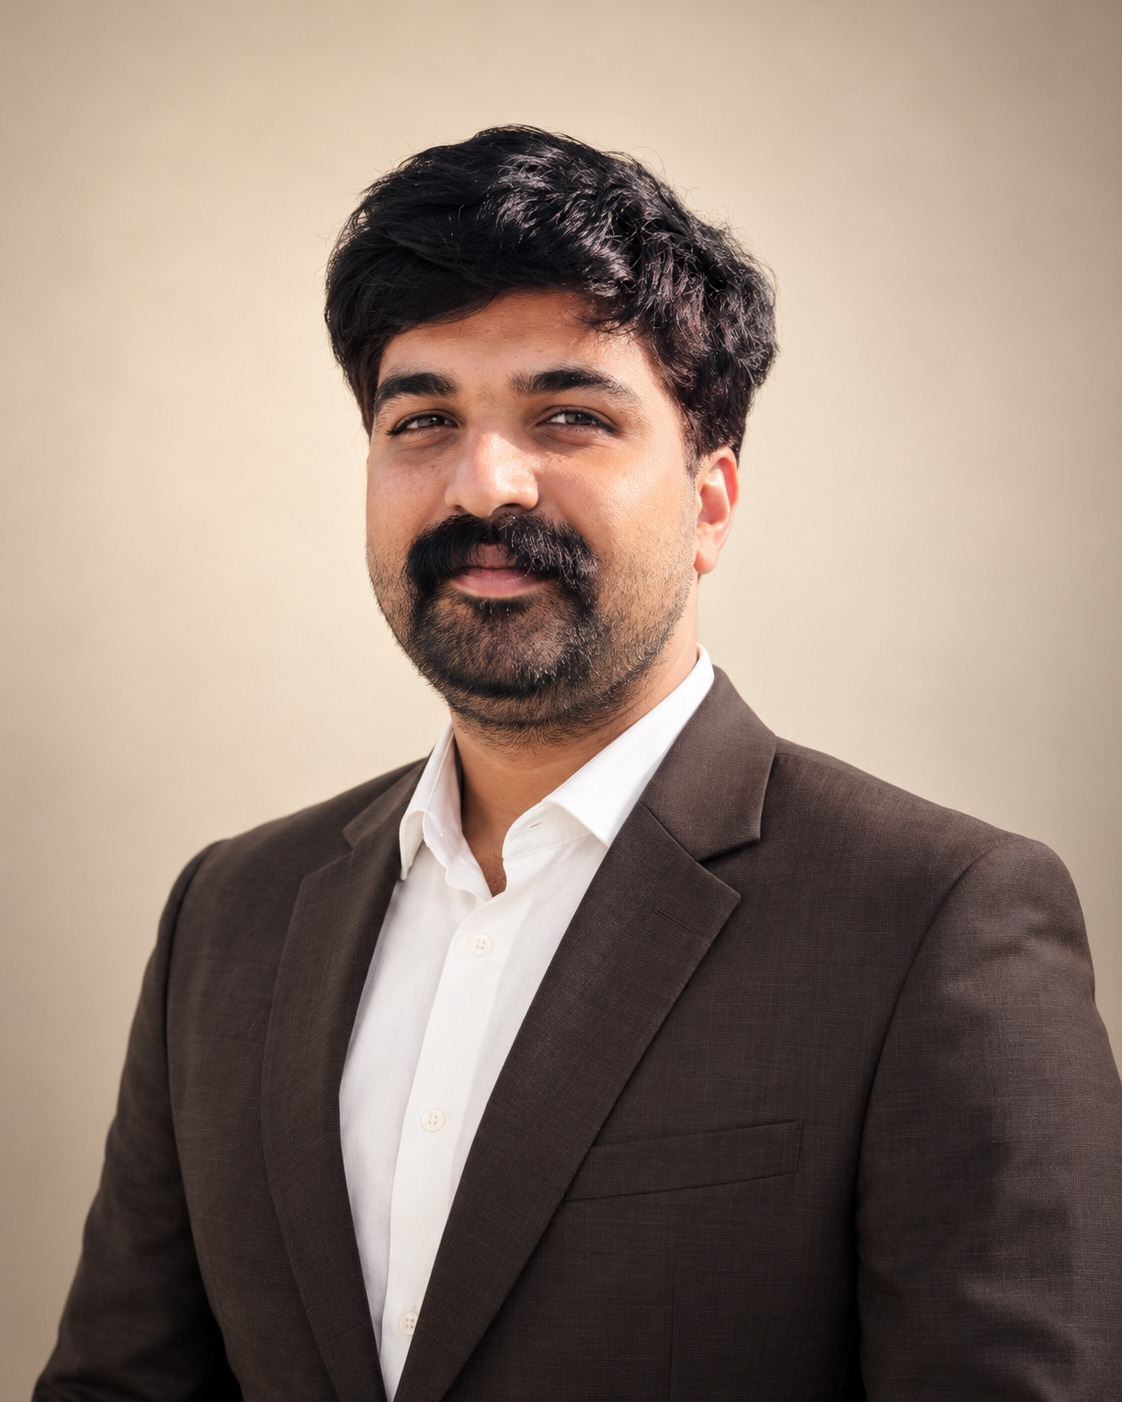
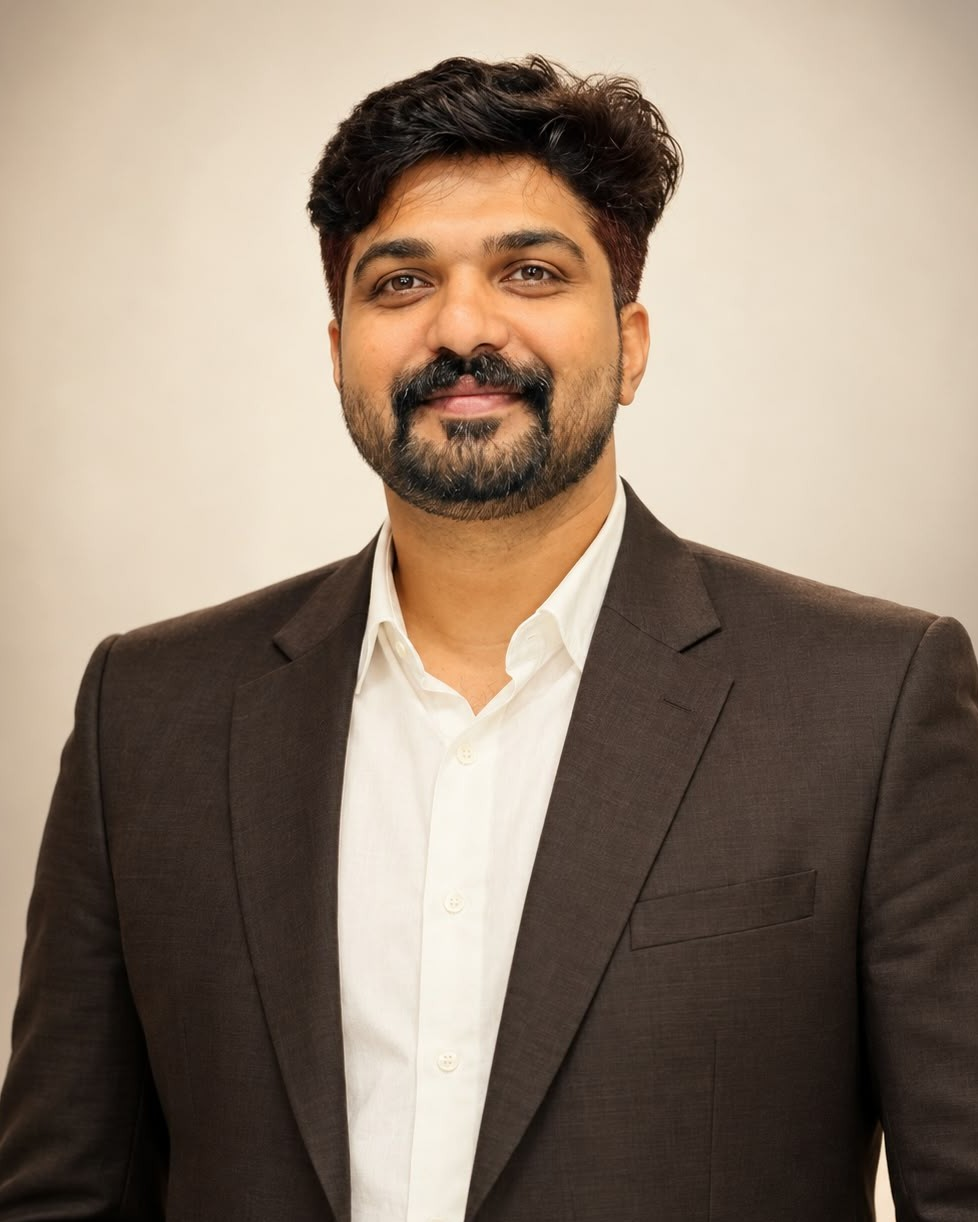
testimonials

diff --git a/data/testimonials.ts b/data/testimonials.ts
@@ -12,23 +12,23 @@ export const testimonials: Testimonial[] = [
   {
     quote:
       'JB Timber Tech has been our go-to supplier for ISI 710 boards. Consistent quality, reliable dispatch, and factory-direct rates that give us a real edge in our region.',
-    name: '[Partner Name]',
-    company: '[Distributor Company]',
-    location: 'Chennai, Tamil Nadu',
+    name: 'Mahin A L',
+    company: 'Plyland Agencies',
+    location: 'Edapally, Kerala',
   },
   {
     quote:
       'The Gurjan Face Dipping range transformed our product line. Every batch arrives perfectly calibrated — our commercial clients notice the difference immediately.',
-    name: '[Partner Name]',
-    company: '[Timber Merchant]',
-    location: 'Kochi, Kerala',
+    name: 'Yogesh Krishna',
+    company: 'Mahadeva Pvt.',
+    location: 'Coimbatore, Tamil Nadu',
   },
   {
     quote:
       'Working with JB Timber has been seamless from order to delivery. The documentation support for our supply contracts is thorough and professional.',
-    name: '[Partner Name]',
-    company: '[Corporate Supply Chain]',
-    location: 'Coimbatore, Tamil Nadu',
+    name: 'Balasubrahmanyan A',
+    company: 'Gallaxy Interiors',
+    location: 'Chennai, Tamil Nadu',
   },
 ];
 
